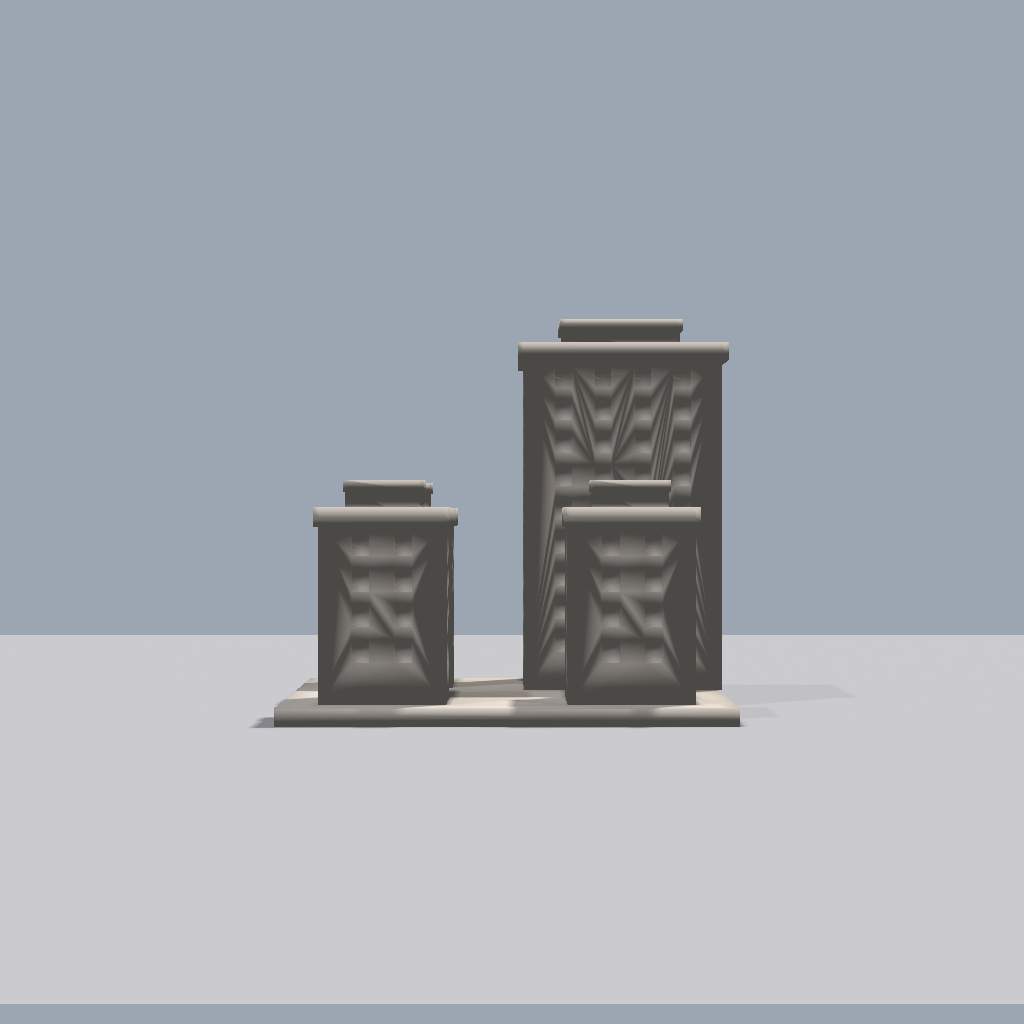
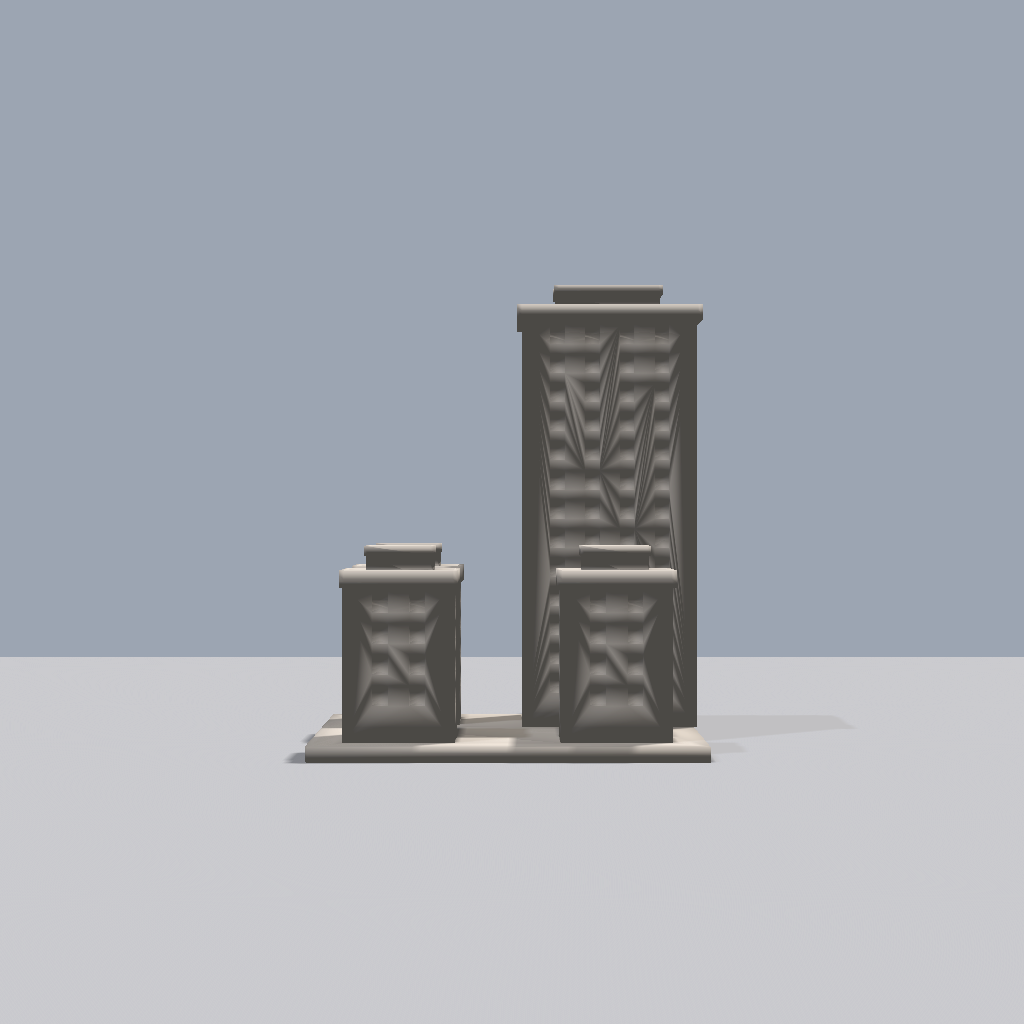
Bump president main tower to 2x floors (14 floors, 79mm tall)
https://claude.ai/code/session_014R5FYiEwm7nQbzdvZzriYj

Changed region(s): [[0.0, 0.2812, 1.0, 0.75], [0.0, 0.9688, 1.0, 1.0]]

diff --git a/src/hotel_generator/complex/presets.py b/src/hotel_generator/complex/presets.py
@@ -89,7 +89,7 @@ _register(HotelPreset(
     num_buildings=4,
     building_roles=["main", "annex", "annex", "annex"],
     size_hints={
-        "main": {"width": 1.0, "depth": 0.7, "floors": 1.5},
+        "main": {"width": 1.0, "depth": 0.7, "floors": 2.0},
         "annex": {"width": 0.6, "depth": 0.4, "floors": 0.85},
     },
 ))
